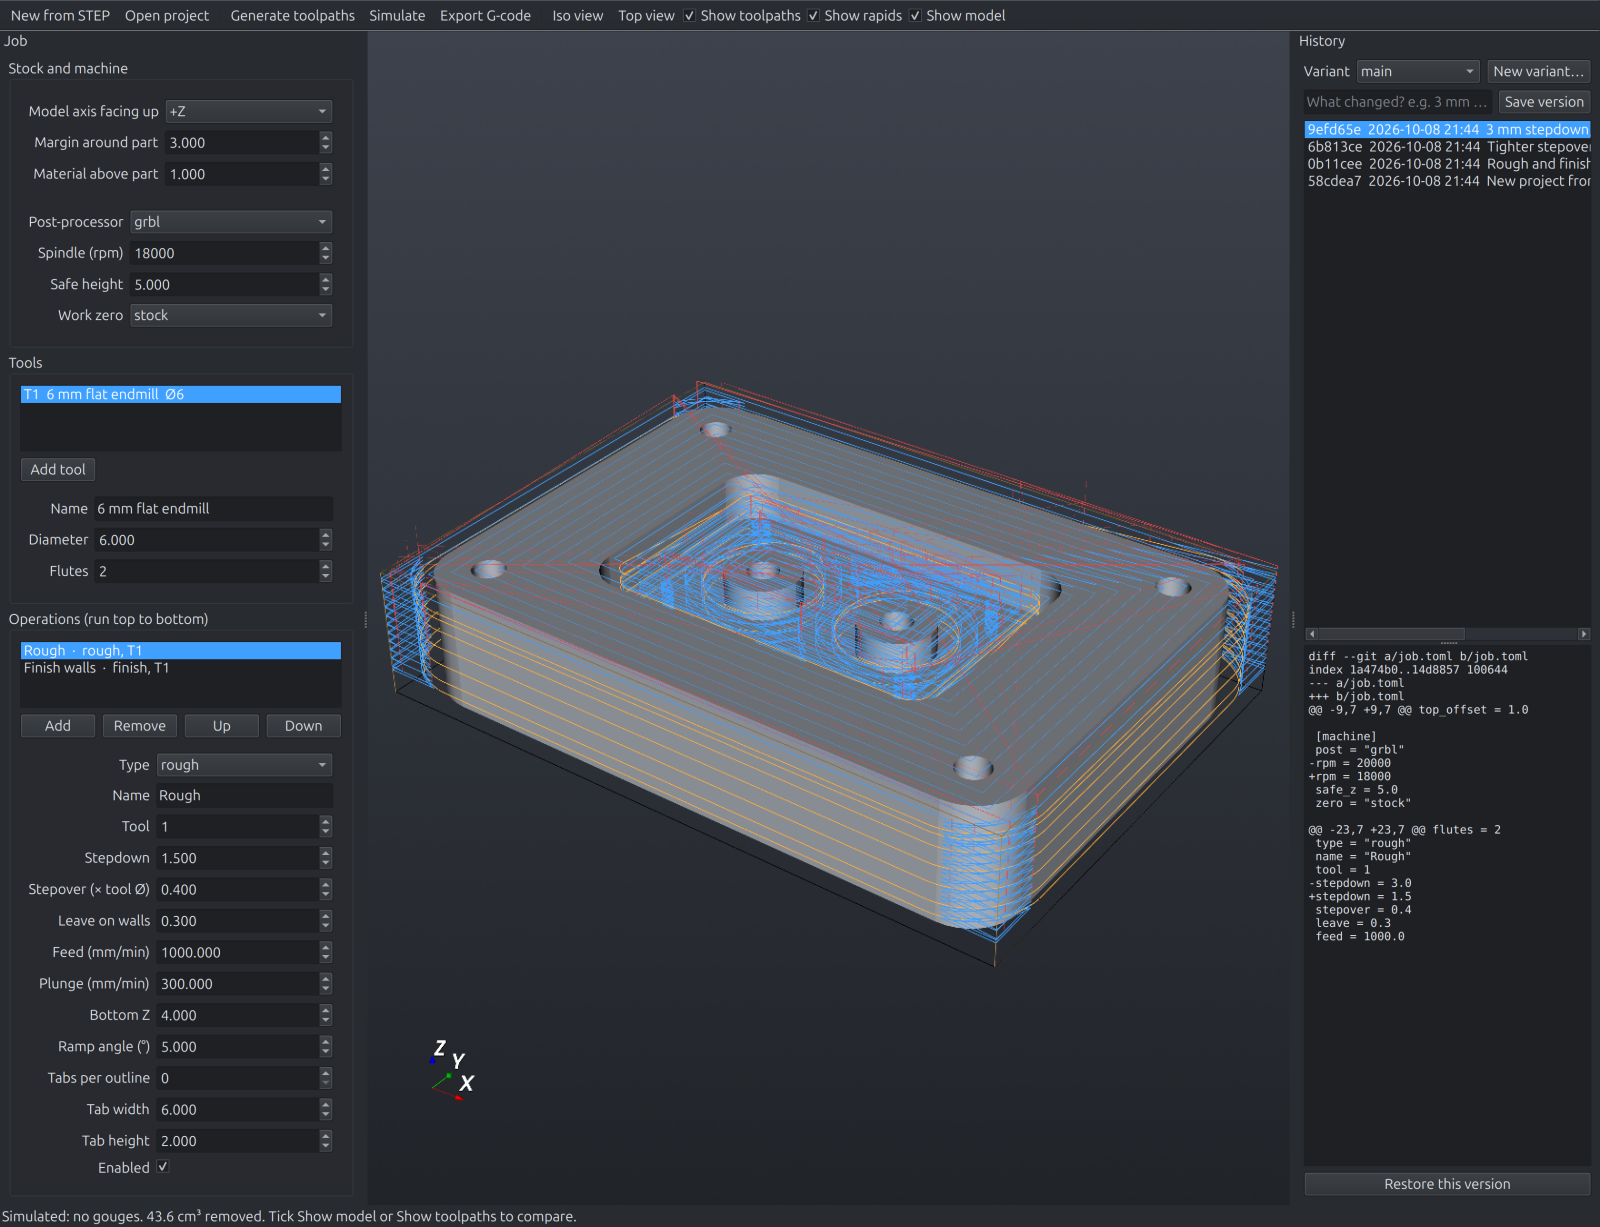
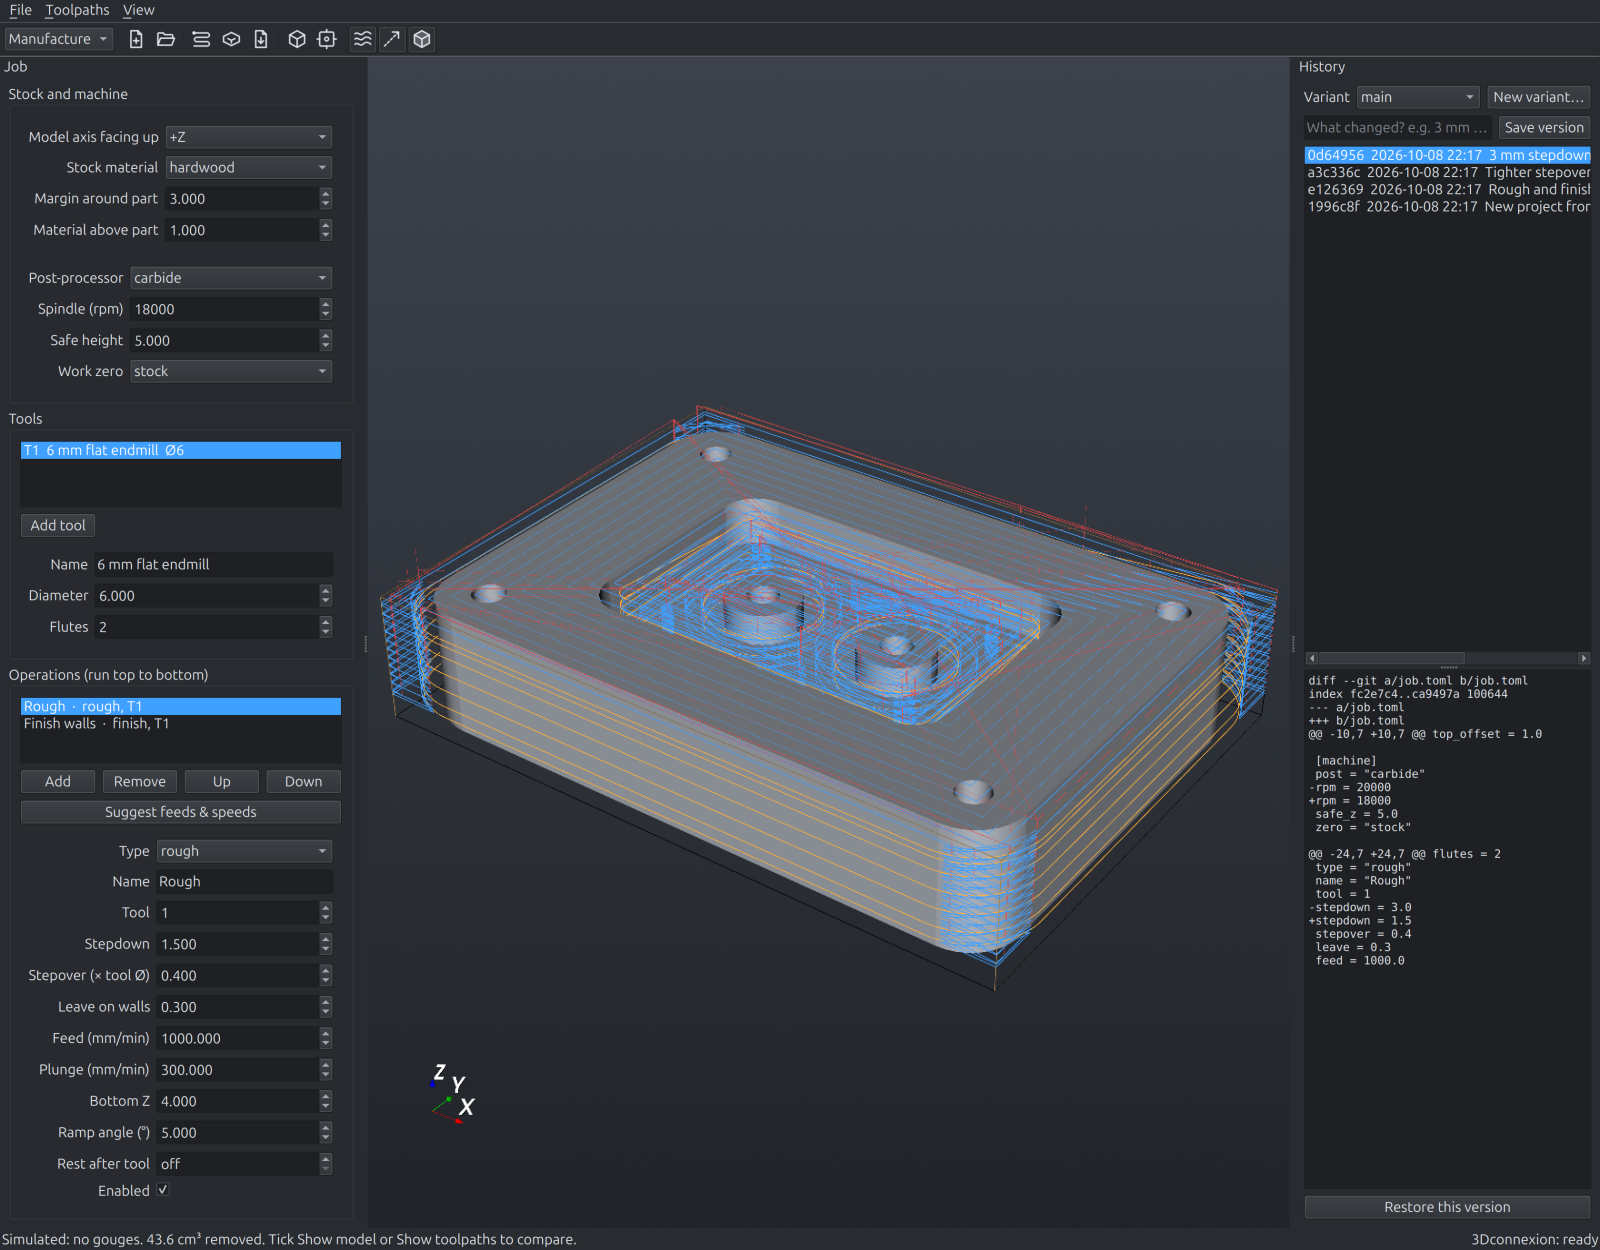
Sketch editor polish, Design screenshots, README for design
- Constraint labels that share an anchor stack instead of overlapping.
- Sketch toolbar in two rows so every tool and constraint is reachable.
- Screenshot script: design and sketch views, correct GL view placement, layout
  settled before each capture.
- README: Design and Sketch sections with screenshots; CHANGELOG.

Claude-Session: https://claude.ai/code/session_01FvDrQg5dr3nkngvB8JMJZ4

diff --git a/tools/screenshots.py b/tools/screenshots.py
@@ -7,7 +7,7 @@ from pathlib import Path
 
 os.environ.setdefault("QT_QPA_PLATFORM", "xcb")
 
-from PySide6.QtCore import Qt, QTimer
+from PySide6.QtCore import QPoint, QRect, Qt, QTimer
 from PySide6.QtGui import QImage, QPainter
 from PySide6.QtWidgets import QApplication
 from vtkmodules.vtkIOImage import vtkPNGWriter
@@ -23,6 +23,8 @@ OUT = ROOT / "docs" / "screenshots"
 
 def capture(win, name):
     """The window with the VTK view painted in (a plain widget grab shows it black)."""
+    for _ in range(5):                  # let Qt lay out widgets that were just created
+        QApplication.processEvents()
     win.viewer.GetRenderWindow().Render()
     f = vtkWindowToImageFilter()
     f.SetInput(win.viewer.GetRenderWindow())
@@ -34,14 +36,48 @@ def capture(win, name):
     w.SetInputConnection(f.GetOutputPort())
     w.Write()
     shot = win.grab().toImage()
-    view = QImage(str(tmp))
-    p = QPainter(shot)
-    r = win.viewer.geometry()
-    p.drawImage(r, view.scaled(r.size()))
-    p.end()
+    if win.viewer.isVisible():          # paint the GL view where it sits in the window
+        view = QImage(str(tmp))
+        p = QPainter(shot)
+        top_left = win.viewer.mapTo(win, QPoint(0, 0))
+        r = QRect(top_left, win.viewer.size())
+        p.drawImage(r, view.scaled(r.size()))
+        p.end()
     shot = shot.scaledToWidth(1600, Qt.SmoothTransformation)
     shot.save(str(OUT / name))
     print("saved", OUT / name)
+
+
+def design_project():
+    """A small designed bracket: dimensioned base sketch, pocket, hole pattern, fillets."""
+    from syntexophobic.model import Feature, Part
+    from syntexophobic.sketch import Sketch
+
+    base = Sketch(name="base")
+    ls = base.rectangle(0, 0, 90, 60)
+    corner = base.lines[ls[0]].a
+    base.constrain("fixed", corner)
+    base.constrain("distance", ls[0], value=90)
+    base.constrain("distance", ls[1], value=60)
+    hole = base.circle((12, 12), 3)
+    base.constrain("diameter", hole, value=6.5)
+    base.constrain("horizontal_distance", corner, base.circles[hole].center, value=12)
+    base.constrain("vertical_distance", corner, base.circles[hole].center, value=12)
+    base.solve()
+    pocket = Sketch(name="pocket", offset=16)
+    pls = pocket.rectangle(25, 15, 65, 45)
+    pocket.constrain("distance", pls[0], value=40)
+    part = Part("bracket", [
+        Feature("extrude", "Base", sketch="base", distance=16),
+        Feature("extrude", "Pocket", sketch="pocket", distance=-9, operation="cut"),
+        Feature("fillet", "Round corners", radius=6, edges="|Z"),
+    ], {"base": base, "pocket": pocket})
+    folder = Path(tempfile.mkdtemp()) / "bracket"
+    proj = Project.create_design(folder, "bracket")
+    part.save(folder)
+    proj.history.save("Bracket: base, pocket, rounded corners")
+    proj.reload()
+    return proj
 
 
 def main():
@@ -89,6 +125,21 @@ def main():
 
     def step3():
         capture(win, "history.png")
+        win.load(design_project())
+        QTimer.singleShot(800, step4)
+
+    def step4():
+        win.viewer.view_iso()
+        win.design_panel.l_features.setCurrentRow(2)
+        capture(win, "design.png")
+        win.open_sketch("base")
+        QTimer.singleShot(400, win.sketch_view.fit)
+        QTimer.singleShot(900, step5)
+
+    def step5():
+        win.sketch_view.selected = [next(iter(win.part.sketches["base"].circles))]
+        win.sketch_view.draw()
+        capture(win, "sketch.png")
         qa.quit()
 
     QTimer.singleShot(1500, step1)

diff --git a/src/syntexophobic/design_ui.py b/src/syntexophobic/design_ui.py
@@ -181,27 +181,25 @@ class DesignPanel(QWidget):
             self.edit_sketch.emit(name)
 
 
-def sketch_toolbar(view, on_finish) -> QToolBar:
-    """Drawing tools and constraint buttons for a SketchView."""
+def sketch_toolbar(view, on_finish) -> QWidget:
+    """Two rows for a SketchView: drawing tools and actions, then constraints."""
     from .sketcher import RULES
-    tb = QToolBar("Sketch")
-    tb.setMovable(False)
+    tools, cons = QToolBar("Sketch"), QToolBar("Constraints")
+    for tb in (tools, cons):
+        tb.setMovable(False)
     for key, text in (("select", "Select"), ("line", "Line"), ("rectangle", "Rectangle"),
                       ("circle", "Circle"), ("arc", "Arc"), ("point", "Point")):
-        a = tb.addAction(text)
+        a = tools.addAction(text)
         a.setCheckable(True)
+        a.setChecked(key == "select")
         a.setData(key)
-        a.triggered.connect(lambda _=False, k=key, t=tb: (view.set_tool(k),
-                            [x.setChecked(x.data() == k) for x in t.actions() if x.isCheckable()]))
-    tb.addSeparator()
-    for name in RULES:
-        a = tb.addAction(name.replace("_", " ").capitalize())
-        a.setToolTip("Needs: " + " or ".join(" + ".join(r) for r in RULES[name]))
-        a.triggered.connect(lambda _=False, n=name: view.apply_constraint(n))
-    a = tb.addAction("Dimension")
+        a.triggered.connect(lambda _=False, k=key: (view.set_tool(k),
+                            [x.setChecked(x.data() == k) for x in tools.actions() if x.isCheckable()]))
+    tools.addSeparator()
+    a = tools.addAction("Dimension")
     a.setToolTip("Length, distance, diameter or angle of the selection")
     a.triggered.connect(lambda: view.dimension())
-    a = tb.addAction("Construction")
+    a = tools.addAction("Construction")
     a.setToolTip("Toggle construction (reference) geometry for the selected lines and circles")
 
     def toggle_construction():
@@ -212,9 +210,19 @@ def sketch_toolbar(view, on_finish) -> QToolBar:
                 ent.construction = not ent.construction
         view.commit()
     a.triggered.connect(toggle_construction)
-    tb.addSeparator()
-    a = tb.addAction("Fit")
+    a = tools.addAction("Fit")
     a.triggered.connect(view.fit)
-    a = tb.addAction("Finish sketch")
+    tools.addSeparator()
+    a = tools.addAction("Finish sketch")
     a.triggered.connect(on_finish)
-    return tb
+    for name in RULES:
+        a = cons.addAction(name.replace("_", " ").capitalize())
+        a.setToolTip("Needs: " + " or ".join(" + ".join(r) for r in RULES[name]))
+        a.triggered.connect(lambda _=False, n=name: view.apply_constraint(n))
+    box = QWidget()
+    col = QVBoxLayout(box)
+    col.setContentsMargins(0, 0, 0, 0)
+    col.setSpacing(0)
+    col.addWidget(tools)
+    col.addWidget(cons)
+    return box

diff --git a/src/syntexophobic/sketcher.py b/src/syntexophobic/sketcher.py
@@ -391,6 +391,7 @@ class SketchView(QGraphicsView):
                  "tangent": "T", "coincident": "●", "concentric": "◎", "midpoint": "M", "fixed": "⚓",
                  "symmetric": "⇋", "point_on_line": "•", "point_on_circle": "•"}
         font = QFont("sans", 8)
+        stacked: dict[tuple, int] = {}                  # labels already at an anchor
         for k in s.constraints:
             anchor = None
             ref = k.refs[0]
@@ -413,7 +414,10 @@ class SketchView(QGraphicsView):
             item = sc.addSimpleText(text, font)
             item.setBrush(CONFLICT if k.id in self.conflicts else QColor(200, 205, 212))
             item.setFlag(item.GraphicsItemFlag.ItemIgnoresTransformations)
-            item.setPos(anchor[0] + self.px(4), anchor[1] + self.px(4))
+            key = (round(anchor[0], 3), round(anchor[1], 3))
+            n = stacked.get(key, 0)
+            stacked[key] = n + 1
+            item.setPos(anchor[0] + self.px(5), anchor[1] + self.px(5 + 13 * n))   # one row per label
 
     def fit(self) -> None:
         s = self.sketch

diff --git a/README.md b/README.md
@@ -2,8 +2,8 @@
 
 # Syntexophobic
 
-2.5D CAM for GRBL machines (Shapeoko, Nomad, Carbide Motion), with a git-style job history
-instead of a timeline. Built on OpenCascade, Qt and VTK. Linux desktop.
+Parametric CAD and 2.5D CAM for GRBL machines (Shapeoko, Nomad, Carbide Motion), with a
+git-style history instead of a timeline. Built on OpenCascade, Qt and VTK. Linux desktop.
 
 *σύντηξις (sýntēxis): melting together, fusion.*
 
@@ -24,7 +24,37 @@ uv run pytest                                # tests
 
 ## How it works
 
-A **project** is a folder with the STEP model, `job.toml` and a git repository.
+A **project** is a folder with the model (a designed part or a STEP file), `job.toml` and a
+git repository. The toolbar switches between the **Design** and **Manufacture** workspaces.
+
+### Design
+
+![Design workspace: feature list, feature settings and the part](docs/screenshots/design.png)
+
+A part is a list of features in `model.toml`, built top to bottom:
+
+| Feature | Options |
+|---|---|
+| **Extrude** | distance, symmetric, new / join / cut / intersect, linear or circular pattern |
+| **Revolve** | axis line from the sketch, angle, same operations and patterns |
+| **Fillet**, **Chamfer** | radius or distance, edge selector |
+| **Shell** | wall thickness, faces to open |
+| **Mirror** | YZ, XZ or XY plane |
+
+Edges and faces are picked with short selectors that survive design changes: `|Z`
+(vertical edges), `#Z` (horizontal), `>Z` / `<Z` (top / bottom face), `%LINE`, `%CIRCLE`,
+and `A&B` for both.
+
+### Sketch
+
+![Sketch editor: fully constrained base sketch, the hole selected](docs/screenshots/sketch.png)
+
+Lines, rectangles, circles, arcs and points on the XY, XZ or YZ plane (with an offset).
+Clicking near a point reuses it. Constraints: coincident, horizontal, vertical, parallel,
+perpendicular, equal, tangent, concentric, midpoint, point on line/circle, fixed,
+symmetric, plus dimensions for length, distance, diameter and angle. Geometry is blue while
+it can still move and white when fully constrained; conflicting constraints turn red.
+Sketches live in `sketches/<name>.toml`.
 
 ### Job
 
@@ -88,7 +118,9 @@ Slicing and simulation run through a pluggable backend with a numpy-compatible A
 
 ## Not there yet
 
-Drilling, adaptive clearing, 3D finishing, and the modelling side. See
+Sketch trim/offset/fillet tools and splines, sketches on faces, sweep and loft, picking
+edges in the 3D view, adaptive clearing and 3D finishing. See
 [CHANGELOG.md](CHANGELOG.md) for what changed.
 
-Screenshots are made from `examples/demo-plate.step` by `uv run python tools/screenshots.py`.
+Screenshots are made from `examples/demo-plate.step` and a small designed bracket by
+`uv run python tools/screenshots.py`.

diff --git a/CHANGELOG.md b/CHANGELOG.md
@@ -17,6 +17,10 @@ All notable changes to Syntexophobic. The format follows
   join, cut or intersect; linear and circular patterns; fillet, chamfer, shell and mirror.
   Edges and faces are chosen with short selectors (`|Z`, `#Z`, `>Z`, `<Z`, `%CIRCLE`,
   `A&B`) that stay valid when the design changes. STEP export.
+- **Design workspace** in the window: Design / Manufacture switch, File > New design…,
+  feature list with per-type settings, and a sketch editor (draw, snap, drag with live
+  solving, constraint and dimension buttons, construction geometry). Edits save and
+  rebuild the part automatically.
 - A CAM project can machine a designed part directly (`model = "model.toml"`); it is
   rebuilt whenever the project reloads.
 - Hole detection: full vertical cylinders with material around them. Pocket-corner
